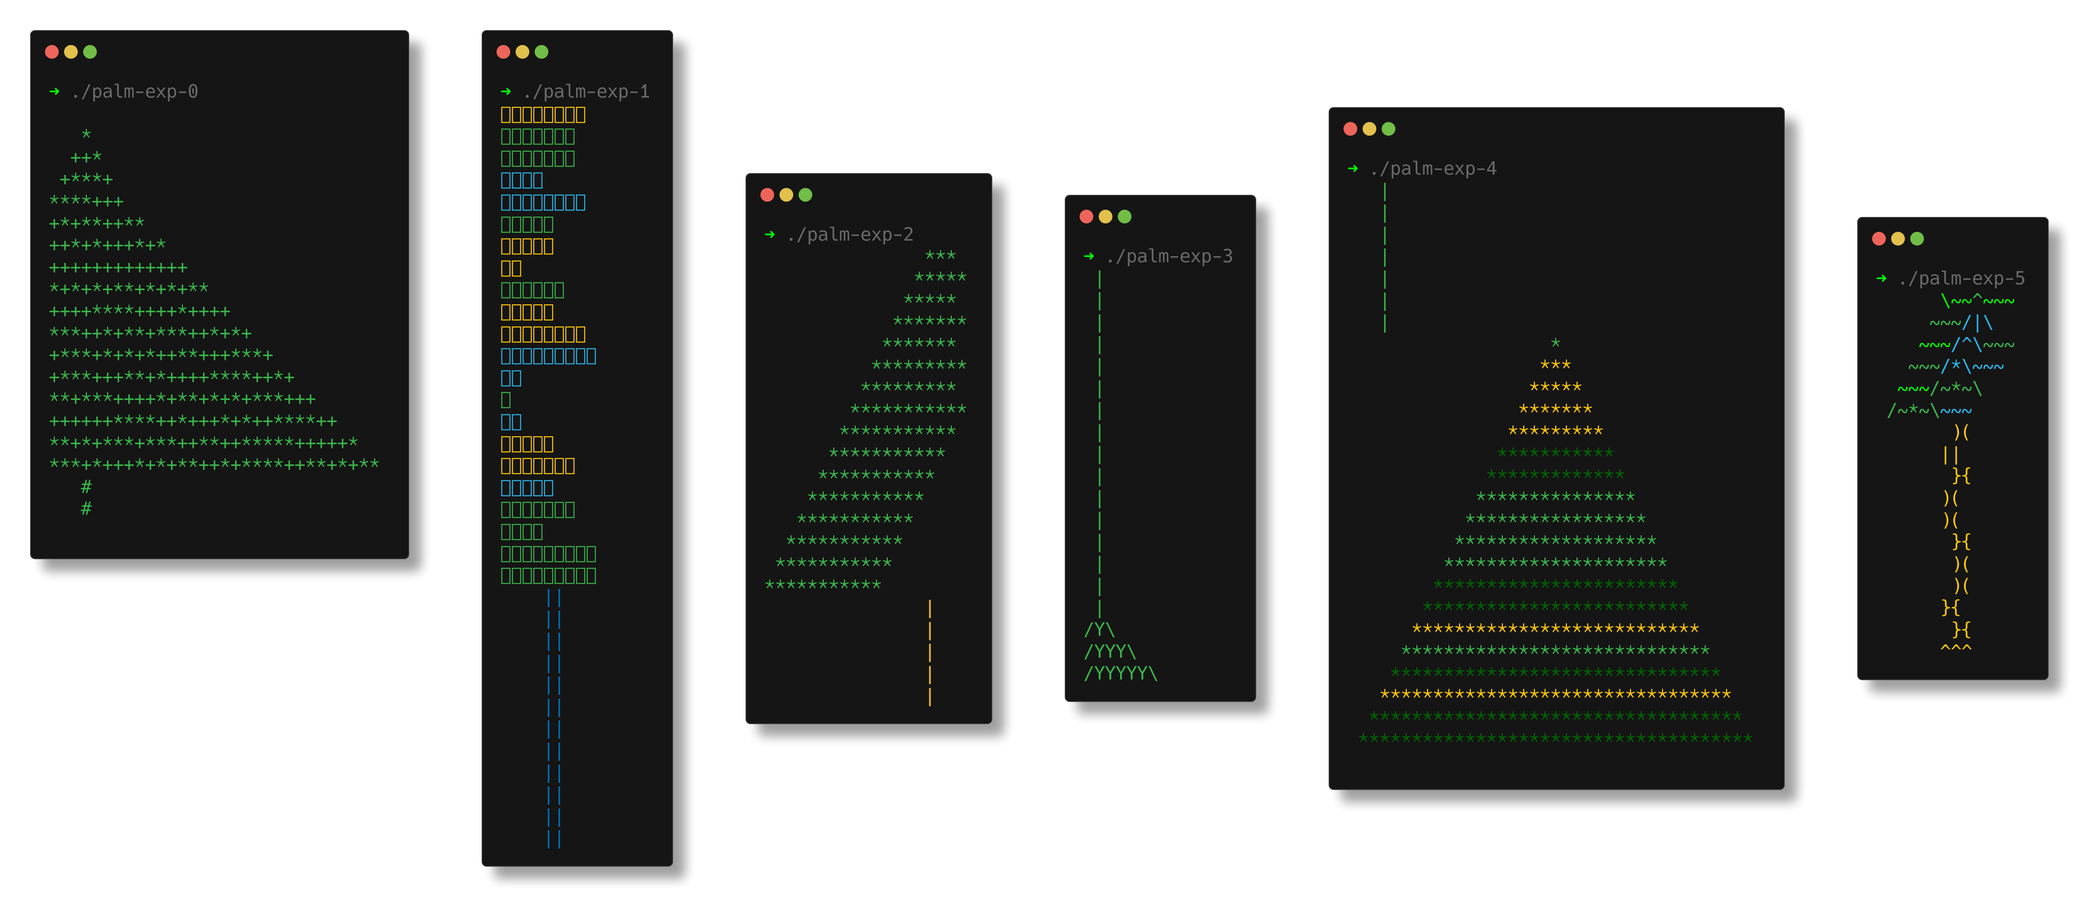
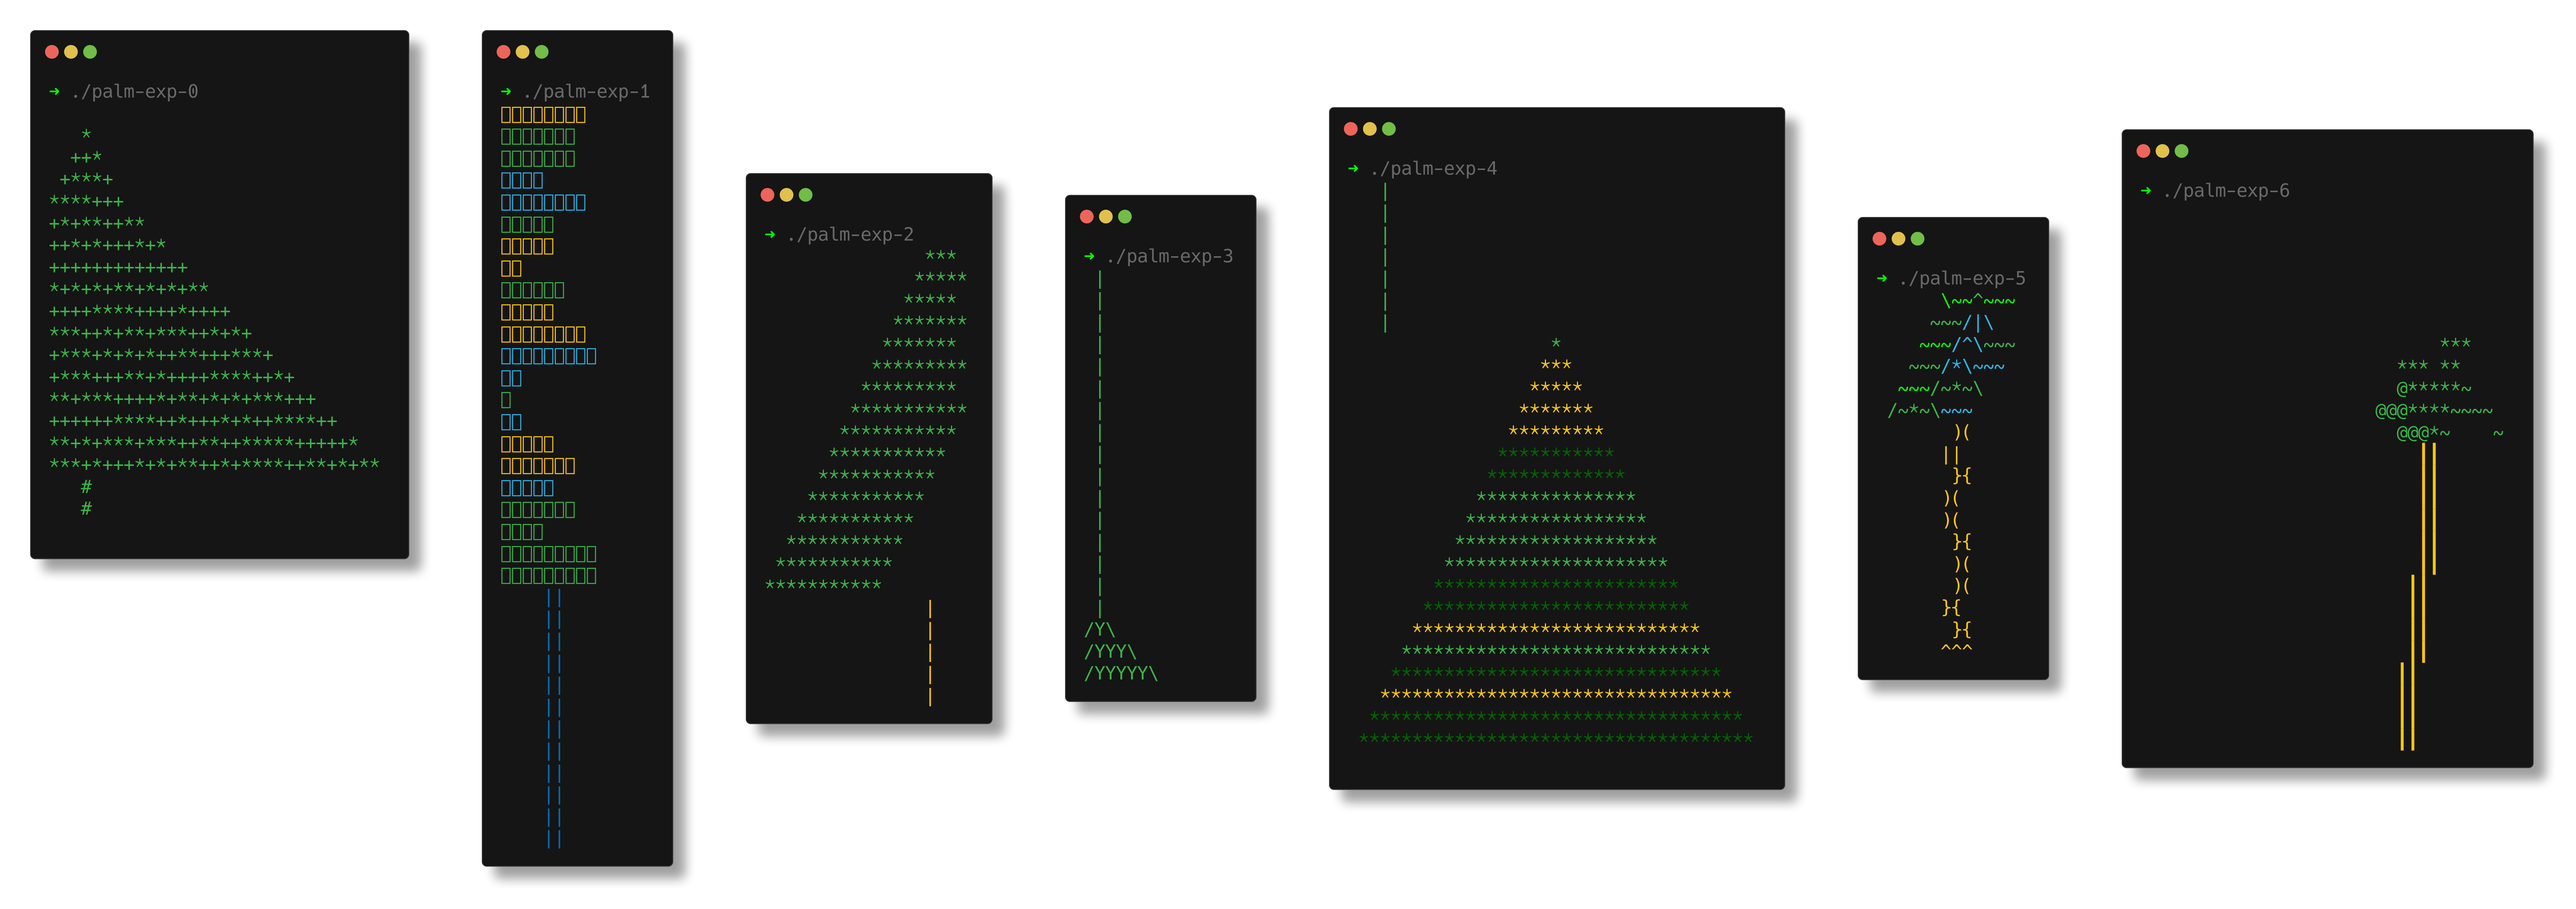
update notes

diff --git a/x/palmeval/palm-exp-6.go b/x/palmeval/palm-exp-6.go
@@ -1,0 +1,173 @@
+package main
+
+import (
+	"fmt"
+	"math"
+	"math/rand"
+	"strings"
+	"time"
+)
+
+const (
+	cvsH = 25 // Canvas Height
+	cvsW = 50 // Canvas Width
+
+	tc = "┃" // Trunk Character
+
+	brown = "\033[33m" // ANSI Yellow, often appears Brownish
+	green = "\033[32m" // ANSI Green
+	reset = "\033[0m"  // ANSI Reset
+)
+
+var leafChars = []string{"*", "~", "#", "@"} // Characters used for leaves
+
+func main() {
+	rand.Seed(time.Now().UnixNano())
+
+	cvs := make([][]string, cvsH) // cvs is the canvas for drawing
+	for i := range cvs {
+		cvs[i] = make([]string, cvsW)
+		for j := range cvs[i] {
+			cvs[i][j] = " " // Initialize with spaces
+		}
+	}
+
+	// --- Trunk Generation ---
+	tH := 10 + rand.Intn(8) // Trunk Height: 10 to 17 characters
+	if tH > cvsH-5 {        // Ensure trunk isn't too tall, leaving space for fronds
+		tH = cvsH - 5
+	}
+	if tH < 5 { // Ensure minimum trunk height
+		tH = 5
+	}
+
+	tBaseC := cvsW/2 - 1     // Trunk Base Column (left character of a 2-char wide trunk)
+	tCols := make([]int, tH) // Stores the left column index for each trunk segment
+
+	currLean := 0                      // Current lean offset from tBaseC
+	maxLean := 2                       // Maximum absolute lean offset
+	leanChangeFreq := 2 + rand.Intn(2) // How often lean might change (every 2-3 segments)
+
+	for r := 0; r < tH; r++ { // r is segment index from bottom (0) to top (tH-1)
+		if r > 0 && r%leanChangeFreq == 0 {
+			leanDelta := rand.Intn(3) - 1 // -1, 0, or 1
+			currLean += leanDelta
+			if currLean > maxLean {
+				currLean = maxLean
+			}
+			if currLean < -maxLean {
+				currLean = -maxLean
+			}
+		}
+		tCols[r] = tBaseC + currLean
+	}
+
+	topTY := cvsH - tH // Y-coordinate (row index) of the highest trunk part
+
+	for r := 0; r < tH; r++ {
+		y := cvsH - 1 - r // Map segment r to canvas row y
+		actualC := tCols[r]
+
+		if y >= 0 && y < cvsH { // Check bounds for y
+			// Draw left part of trunk
+			if actualC >= 0 && actualC < cvsW {
+				cvs[y][actualC] = brown + tc + reset
+			}
+			// Draw right part of trunk
+			if actualC+1 >= 0 && actualC+1 < cvsW {
+				cvs[y][actualC+1] = brown + tc + reset
+			}
+		}
+	}
+
+	fOrgX := tBaseC + 1 // Default Frond Origin X (center of base trunk)
+	if tH > 0 {
+		fOrgX = tCols[tH-1] + 1 // Frond origin X based on the top-most, leaned trunk segment (right char)
+	}
+	fOrgY := topTY // Frond Origin Y
+
+	// --- Frond Generation ---
+	nFronds := 5 + rand.Intn(4) // Number of fronds: 5 to 8
+
+	minAngle := math.Pi * 0.10 // Approx 18 degrees from horizontal right
+	maxAngle := math.Pi * 0.90 // Approx 162 degrees
+	angleRange := maxAngle - minAngle
+
+	for i := 0; i < nFronds; i++ {
+		fLen := 5 + rand.Intn(6) // Frond Length: 5 to 10 units
+
+		var angle float64
+		if nFronds == 1 { // Should not happen with current nFronds range, but good practice
+			angle = minAngle + angleRange/2.0
+		} else {
+			angle = minAngle + (float64(i)/float64(nFronds-1))*angleRange
+		}
+		// Add random jitter to angle for variation
+		angle += (rand.Float64() - 0.5) * (math.Pi / float64(nFronds+4))
+
+		curveF := 0.04 + rand.Float64()*0.08          // Curvature factor (0.04 to 0.12)
+		lChar := leafChars[rand.Intn(len(leafChars))] // Random leaf character for this frond
+
+		for l := 0; l < fLen; l++ { // l is segment along the frond
+			// Base projection of frond segment
+			dx := float64(l) * math.Cos(angle)
+			dy := float64(l) * math.Sin(angle) // dy is positive for upward angles (0 to Pi)
+
+			// Apply curve (droop effect)
+			// yOffC (y-offset due to curve) makes dy effectively smaller, then negative, causing downward curve
+			yOffC := curveF * float64(l*l) * 0.25 // Quadratic curve, scaled
+
+			// Calculate final coordinates for the frond segment
+			fx := fOrgX + int(math.Round(dx))
+			// dy*0.65 flattens fronds initially; yOffC adds the droop.
+			// Canvas Y decreases upwards, so subtract for "up", add for "down".
+			fy := fOrgY - int(math.Round(dy*0.65-yOffC))
+
+			if fx >= 0 && fx < cvsW && fy >= 0 && fy < cvsH { // Check canvas bounds
+				// Avoid frond overwriting the main trunk heavily, except near origin
+				isTrunkPixel := false
+				if fy > fOrgY && fy < cvsH && tH > 0 { // Only check if below frond origin and trunk exists
+					trunkSegIdx := cvsH - 1 - fy
+					if trunkSegIdx >= 0 && trunkSegIdx < tH {
+						trunkColForY := tCols[trunkSegIdx]
+						if fx == trunkColForY || fx == trunkColForY+1 {
+							isTrunkPixel = true
+						}
+					}
+				}
+
+				if !isTrunkPixel || l < fLen/3 { // Allow fronds to start "on" the trunk
+					cvs[fy][fx] = green + lChar + reset
+				}
+			}
+
+			// Add random thickness to fronds
+			if rand.Intn(3) == 0 && l > fLen/4 && l < fLen-1 { // For some segments, not too close to origin or tip
+				sideFx := fx + (rand.Intn(3) - 1) // -1, 0, or 1 offset horizontally
+				sideFy := fy + (rand.Intn(3) - 1) // -1, 0, or 1 offset vertically
+
+				if sideFx >= 0 && sideFx < cvsW && sideFy >= 0 && sideFy < cvsH {
+					// Check again to avoid drawing thickness on trunk
+					isThickOnTrunk := false
+					if sideFy > fOrgY && sideFy < cvsH && tH > 0 {
+						trunkSegIdx := cvsH - 1 - sideFy
+						if trunkSegIdx >= 0 && trunkSegIdx < tH {
+							trunkColForY := tCols[trunkSegIdx]
+							if sideFx == trunkColForY || sideFx == trunkColForY+1 {
+								isThickOnTrunk = true
+							}
+						}
+					}
+					if !isThickOnTrunk {
+						cvs[sideFy][sideFx] = green + lChar + reset
+					}
+				}
+			}
+		}
+	}
+
+	// --- Print Canvas ---
+	for r := 0; r < cvsH; r++ {
+		fmt.Println(strings.Join(cvs[r], ""))
+	}
+}
